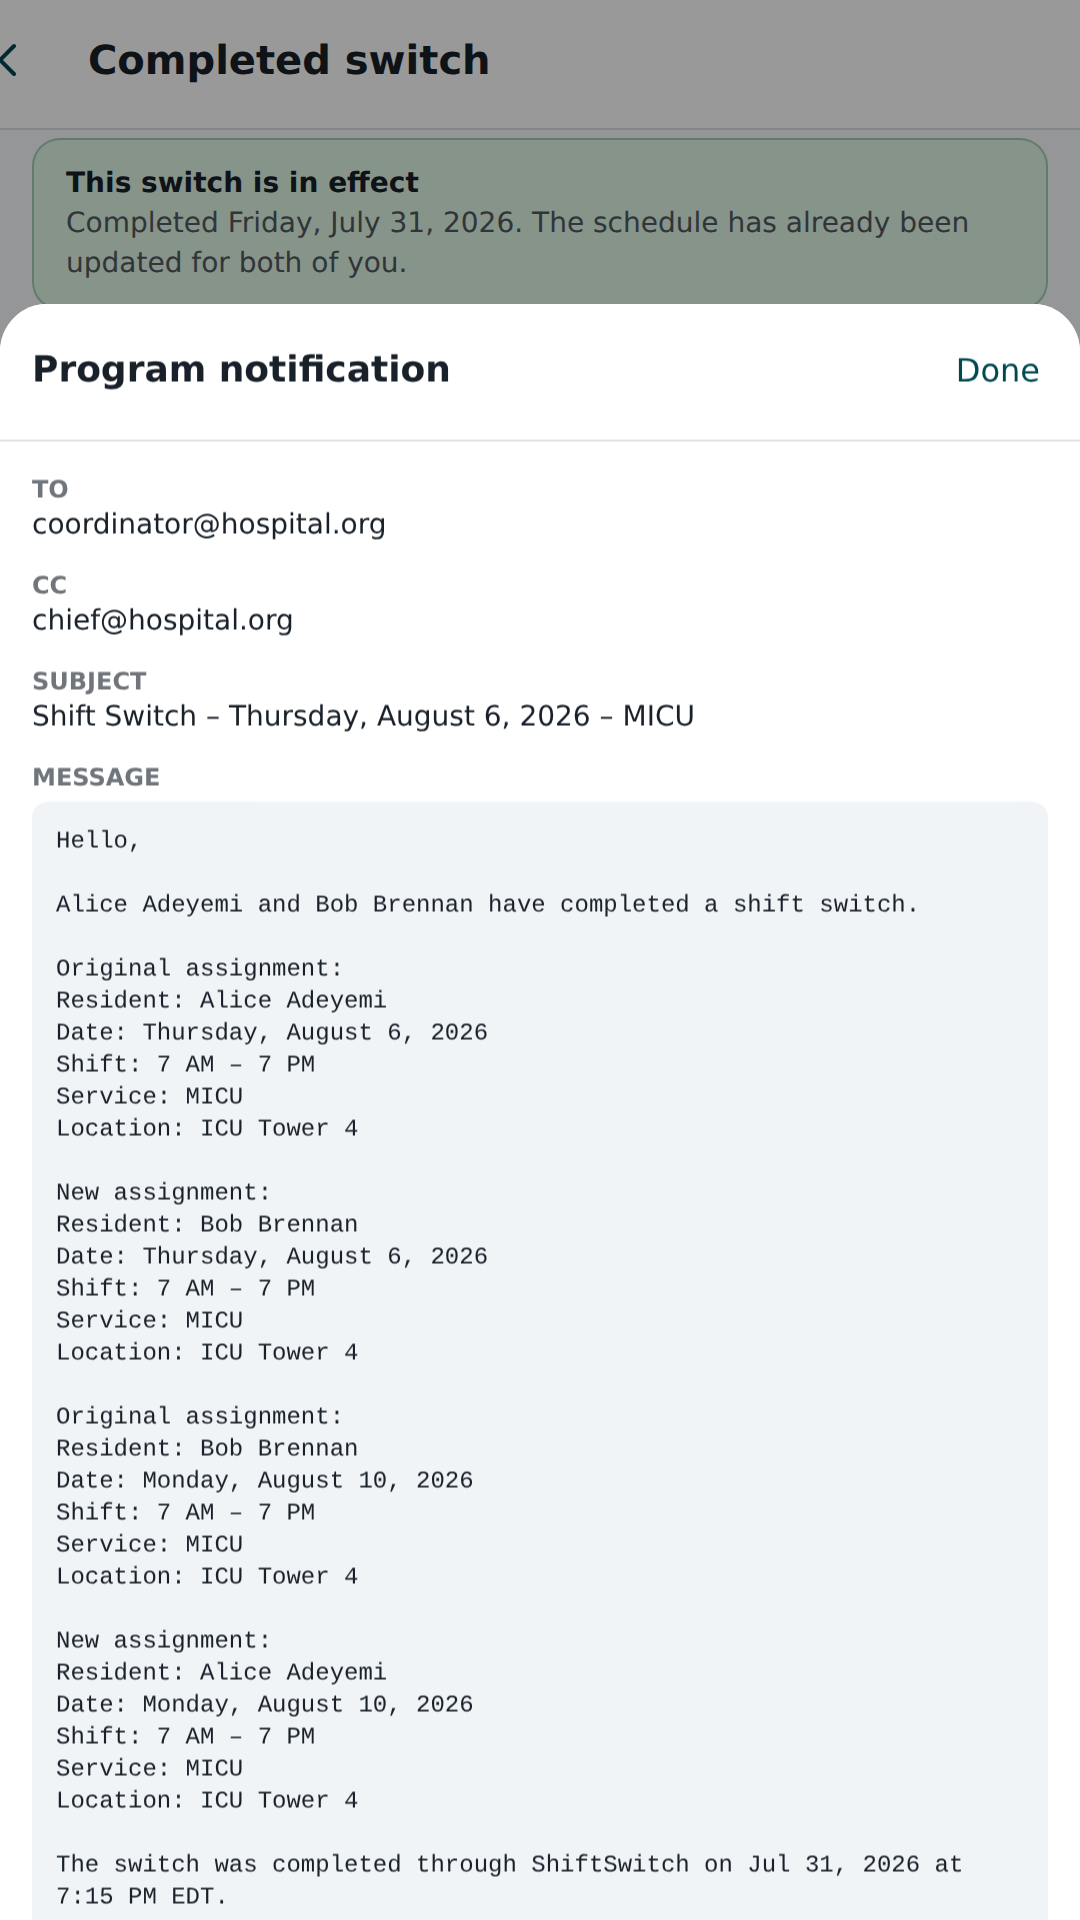
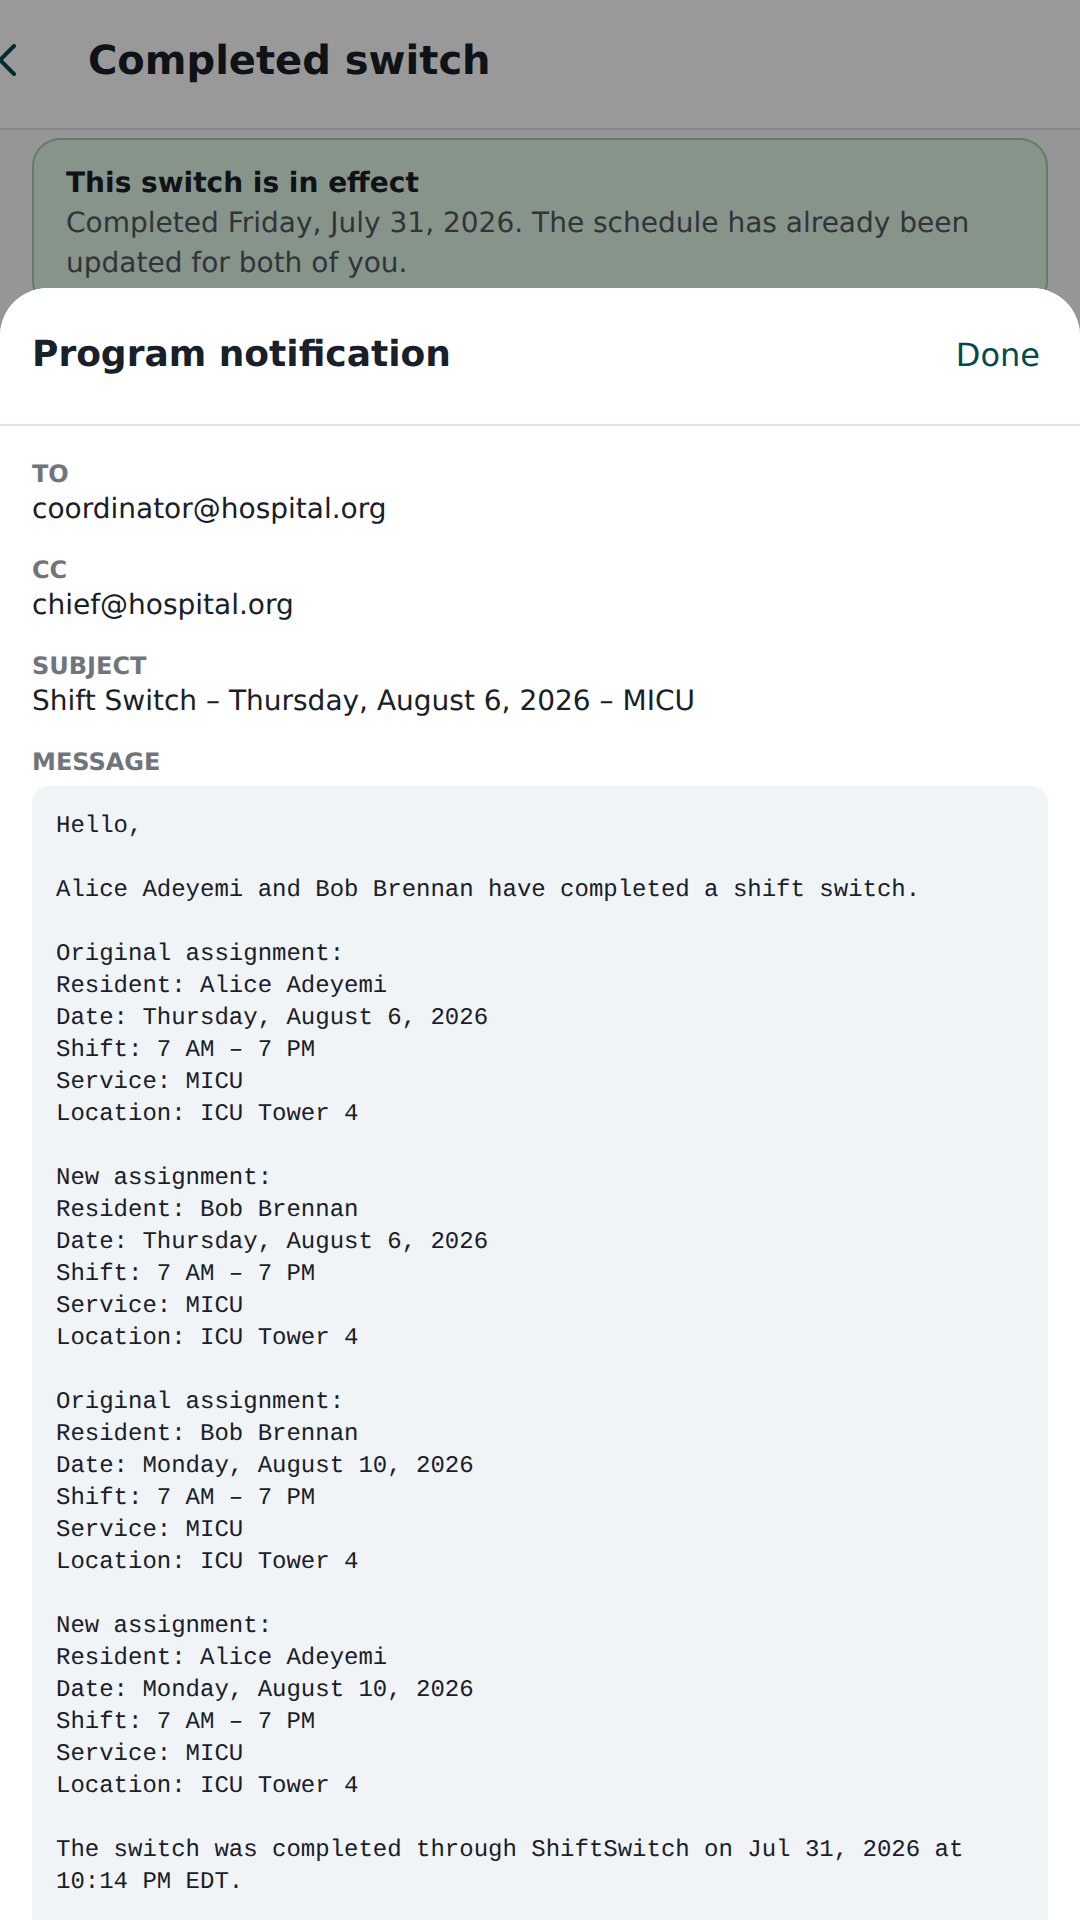
Add property tests, and bucket coverage lookups by service and day
Eight properties over 120 generated schedules, seeded so a failure is
reproducible from the seed printed with it: the validator never throws, is
valid exactly when it reports no hard violations, scores inside 0–100 with
every objective present, returns byte-identical output on a second run, only
names constraints that exist, writes a readable sentence every time, keeps
every soft penalty inside its range, and never puts a soft violation ahead of a
hard one.

The generator is deliberately careless — overlaps, unstaffed shifts, people on
leave, impossible coverage, empty programmes — because a property asserted only
over well-formed input is a property asserted over the cases that were never
going to break it.

Coverage cells are now bucketed by service and day once instead of filtering
every assignment for every (date, requirement) pair. A month barely noticed; a
year of a large programme is 365 days times twenty requirements times several
thousand assignments, which turns a validation into a visible wait. The demo's
four weeks validate in under half a second.

npm run verify exits 0: 10 steps, 664s. 544 unit and integration, 37 native,
134 web end-to-end, 16 native end-to-end, migrations 0001-0008 from empty, and
328 integration against the rebuilt schema.

Claude-Session: https://claude.ai/code/session_01LzUZab9XdFsK4H7WHAS23d

diff --git a/tests/unit/constraint-properties.test.ts b/tests/unit/constraint-properties.test.ts
@@ -1,0 +1,253 @@
+import { describe, expect, it } from "vitest";
+import { CONSTRAINTS, SOFT_CONSTRAINTS } from "@/server/domain/constraints/catalog";
+import { validateSchedule } from "@/server/domain/constraints/validator";
+import type { ScheduleSnapshot } from "@/server/domain/constraints/types";
+import { IDS, baseSnapshot, night, resident, rule, shift } from "./constraint-fixture";
+
+/**
+ * Properties that must hold for *any* schedule, not just the ones somebody
+ * thought to write a case for.
+ *
+ * The per-constraint tests prove each constraint fires when it should. These
+ * prove the things that have to be true of every report the validator can ever
+ * produce — that it never throws, never scores outside its own range, never
+ * contradicts itself about validity, and never returns two different answers
+ * for the same schedule.
+ *
+ * Schedules are generated from a seeded pseudo-random source rather than a
+ * library, so a failure is reproducible from the seed printed with it. The
+ * generator is deliberately careless: it produces overlaps, unstaffed shifts,
+ * people on leave, impossible coverage and empty programmes, because a property
+ * asserted only over well-formed input is a property asserted over the cases
+ * that were never going to break.
+ */
+
+/** Mulberry32 — small, fast, and identical on every machine. */
+function seeded(seed: number): () => number {
+  let state = seed >>> 0;
+  return () => {
+    state = (state + 0x6d2b79f5) >>> 0;
+    let t = state;
+    t = Math.imul(t ^ (t >>> 15), t | 1);
+    t ^= t + Math.imul(t ^ (t >>> 7), t | 61);
+    return ((t ^ (t >>> 14)) >>> 0) / 4294967296;
+  };
+}
+
+const DATES = [
+  "2026-08-03",
+  "2026-08-04",
+  "2026-08-05",
+  "2026-08-06",
+  "2026-08-07",
+  "2026-08-08",
+  "2026-08-09",
+];
+
+const RULE_TYPES = [
+  "min_rest_hours",
+  "max_consecutive_shifts",
+  "max_consecutive_nights",
+  "max_shifts_in_period",
+  "weekend_limit",
+  "no_overlapping_shifts",
+  "pgy_requirement",
+  "blackout_dates",
+  "holiday_restriction",
+] as const;
+
+function randomSnapshot(seed: number): ScheduleSnapshot {
+  const random = seeded(seed);
+  const pick = <T,>(items: readonly T[]): T =>
+    items[Math.floor(random() * items.length)];
+
+  const snapshot = baseSnapshot();
+  const people: string[] = [IDS.alice, IDS.ben, IDS.carmen, IDS.dev, IDS.dana];
+
+  // A programme with nobody in it is a real state, and has to survive.
+  if (random() < 0.1) {
+    snapshot.assignments = [];
+    snapshot.residents = [];
+    return snapshot;
+  }
+
+  if (random() < 0.3) {
+    snapshot.residents.push(
+      resident("aaaaaaaa-0006-4000-8000-000000000006", "Ella Ekwueme", 3),
+    );
+    people.push("aaaaaaaa-0006-4000-8000-000000000006");
+  }
+
+  // Between none and twenty extra shifts, some overnight, some on nobody.
+  const extra = Math.floor(random() * 20);
+  for (let index = 0; index < extra; index += 1) {
+    const date = pick(DATES);
+    const serviceId = random() < 0.5 ? IDS.wards : IDS.clinic;
+    const holder = random() < 0.15 ? null : pick(people);
+    snapshot.assignments.push(
+      random() < 0.25
+        ? night(date, serviceId, holder)
+        : shift(date, serviceId, holder),
+    );
+  }
+
+  // People who cannot work, and people with things recorded about them.
+  for (const person of snapshot.residents) {
+    if (random() < 0.15) person.schedulable = false;
+    if (random() < 0.1) person.active = false;
+    if (random() < 0.15) person.constraints = { unavailableDates: [pick(DATES)] };
+    if (random() < 0.15) person.preferences = { requestedDaysOff: [pick(DATES)] };
+    if (random() < 0.1) person.siteEligibility = { [IDS.site]: false };
+    if (random() < 0.15) {
+      person.cohortId = random() < 0.5 ? IDS.cohortA : IDS.cohortB;
+      person.cohortLabel = "A cohort";
+    }
+  }
+
+  // Coverage that may be impossible to satisfy.
+  if (random() < 0.5) {
+    snapshot.coverage = [
+      {
+        ...snapshot.coverage[0],
+        min_staff: Math.floor(random() * 5),
+        max_staff: random() < 0.5 ? Math.floor(random() * 3) : null,
+        pgy_mix:
+          random() < 0.4
+            ? [{ pgy: 1 + Math.floor(random() * 3), min: Math.floor(random() * 3), max: null }]
+            : [],
+      },
+    ];
+  }
+
+  // A handful of rules, configured with values that may be absurd.
+  const ruleCount = Math.floor(random() * 4);
+  for (let index = 0; index < ruleCount; index += 1) {
+    const type = pick(RULE_TYPES);
+    snapshot.rules.push(
+      rule(
+        type,
+        {
+          hours: Math.floor(random() * 48),
+          days: Math.floor(random() * 5),
+          nights: Math.floor(random() * 3),
+          maxShifts: Math.floor(random() * 6),
+          windowDays: 1 + Math.floor(random() * 28),
+          maxWeekendShifts: Math.floor(random() * 3),
+          dates: [pick(DATES)],
+          mode: random() < 0.5 ? "block" : "approval",
+        },
+        {
+          id: `rule-${type}-${index}`,
+          severity: random() < 0.25 ? "warning" : "error",
+        },
+      ),
+    );
+  }
+
+  if (random() < 0.3) {
+    snapshot.baseline = snapshot.assignments.map((assignment) => ({
+      ...assignment,
+      residentId: random() < 0.4 ? pick(people) : assignment.residentId,
+    }));
+  }
+
+  return snapshot;
+}
+
+/* Enough to be worth running, few enough to keep `verify:fast` fast. Each seed
+   is validated by eight separate properties, so this is over a thousand
+   validations; going higher bought no new failures and cost the inner loop
+   half a minute. */
+const SEEDS = Array.from({ length: 120 }, (_, index) => index + 1);
+const KNOWN = new Set(CONSTRAINTS.map((c) => c.id));
+
+describe("properties that hold for any schedule", () => {
+  it("never throws, whatever the schedule and configuration look like", () => {
+    for (const seed of SEEDS) {
+      expect(() => validateSchedule(randomSnapshot(seed)), `seed ${seed}`).not.toThrow();
+    }
+  });
+
+  it("is valid exactly when it reports no hard violations", () => {
+    for (const seed of SEEDS) {
+      const result = validateSchedule(randomSnapshot(seed));
+      const hard = result.violations.filter((v) => v.kind === "hard");
+      expect(result.summary.valid, `seed ${seed}`).toBe(hard.length === 0);
+      expect(result.summary.hardCount, `seed ${seed}`).toBe(hard.length);
+    }
+  });
+
+  it("scores between 0 and 100, always with the full breakdown", () => {
+    for (const seed of SEEDS) {
+      const { score } = validateSchedule(randomSnapshot(seed));
+      expect(score.score, `seed ${seed}`).toBeGreaterThanOrEqual(0);
+      expect(score.score, `seed ${seed}`).toBeLessThanOrEqual(100);
+      for (const soft of SOFT_CONSTRAINTS) {
+        expect(
+          score.objectives.some((o) => o.constraintId === soft.id),
+          `seed ${seed} is missing ${soft.id}`,
+        ).toBe(true);
+      }
+    }
+  });
+
+  it("gives the same answer twice, down to the order", () => {
+    for (const seed of SEEDS) {
+      const first = validateSchedule(randomSnapshot(seed));
+      const second = validateSchedule(randomSnapshot(seed));
+      expect(JSON.stringify(second), `seed ${seed}`).toEqual(JSON.stringify(first));
+    }
+  });
+
+  it("only ever reports constraints that exist", () => {
+    for (const seed of SEEDS) {
+      for (const violation of validateSchedule(randomSnapshot(seed)).violations) {
+        expect(KNOWN, `seed ${seed}`).toContain(violation.constraintId);
+      }
+    }
+  });
+
+  it("writes a readable sentence every time", () => {
+    for (const seed of SEEDS) {
+      for (const violation of validateSchedule(randomSnapshot(seed)).violations) {
+        const where = `seed ${seed} / ${violation.constraintId}: "${violation.message}"`;
+        expect(violation.message, where).not.toMatch(/\d{4}-\d{2}-\d{2}/);
+        expect(violation.message, where).toMatch(/[.!]$/);
+        expect(violation.message.length, where).toBeGreaterThan(15);
+        expect(violation.message, where).not.toMatch(/undefined|NaN|\[object/);
+      }
+    }
+  });
+
+  it("puts every soft violation's penalty inside its range", () => {
+    for (const seed of SEEDS) {
+      for (const violation of validateSchedule(randomSnapshot(seed)).violations) {
+        if (violation.kind !== "soft") continue;
+        expect(violation.penalty, `seed ${seed} / ${violation.constraintId}`).toBeDefined();
+        expect(violation.penalty!, `seed ${seed}`).toBeGreaterThan(0);
+        expect(violation.penalty!, `seed ${seed}`).toBeLessThanOrEqual(1);
+      }
+    }
+  });
+
+  it("keeps hard violations ahead of soft ones", () => {
+    for (const seed of SEEDS) {
+      const kinds = validateSchedule(randomSnapshot(seed)).violations.map((v) => v.kind);
+      const firstSoft = kinds.indexOf("soft");
+      if (firstSoft === -1) continue;
+      expect(kinds.slice(firstSoft).includes("hard"), `seed ${seed}`).toBe(false);
+    }
+  });
+
+  it("removes every violation when the schedule is emptied", () => {
+    /* Nothing scheduled cannot be *wrong*, only incomplete — and incomplete is
+       coverage's business, which needs a requirement to have an opinion. */
+    for (const seed of SEEDS.slice(0, 40)) {
+      const snapshot = randomSnapshot(seed);
+      snapshot.assignments = [];
+      snapshot.coverage = [];
+      snapshot.baseline = undefined;
+      expect(validateSchedule(snapshot).violations, `seed ${seed}`).toEqual([]);
+    }
+  });
+});

diff --git a/src/server/domain/constraints/hard.ts b/src/server/domain/constraints/hard.ts
@@ -85,7 +85,20 @@ function bandLabel(requirement: {
 /** Every (date, requirement) pair in the window, with what is actually on it. */
 function* coverageCells(snapshot: ScheduleSnapshot) {
   const services = new Map(snapshot.services.map((s) => [s.id, s]));
-  const staffed = staffedAssignments(snapshot);
+  const active = snapshot.coverage.filter((r) => r.active);
+
+  /* Bucketed by service and day once, rather than filtering every assignment
+     for every (date, requirement) pair. A month barely notices the
+     difference; a year of a large programme is 365 days × twenty requirements
+     × several thousand assignments, and the naive scan turns a validation
+     into a visible wait on a screen with a spinner. */
+  const byServiceDay = new Map<string, ScheduleAssignment[]>();
+  for (const assignment of staffedAssignments(snapshot)) {
+    const key = `${assignment.serviceId}|${assignmentDate(assignment, snapshot.program.timezone)}`;
+    const list = byServiceDay.get(key);
+    if (list) list.push(assignment);
+    else byServiceDay.set(key, [assignment]);
+  }
 
   for (const iso of datesInPeriod(snapshot.period)) {
     /* `requirementsFor` takes an instant so it can resolve the programme's
@@ -99,17 +112,17 @@ function* coverageCells(snapshot: ScheduleSnapshot) {
     }
 
     for (const requirement of requirementsFor(
-      snapshot.coverage.filter((r) => r.active),
+      active,
       instant,
       snapshot.program.timezone,
     )) {
       const service = services.get(requirement.service_id);
       if (!service || !service.active) continue;
-      const present = staffed.filter(
-        (a) =>
-          a.serviceId === requirement.service_id &&
-          countsToward(a, requirement, iso, snapshot.program.timezone),
-      );
+      /* Only the requirement's own time band still needs testing per cell —
+         the day and the service came from the bucket key. */
+      const present = (
+        byServiceDay.get(`${requirement.service_id}|${iso}`) ?? []
+      ).filter((a) => countsToward(a, requirement, iso, snapshot.program.timezone));
       yield { iso, requirement, service, present };
     }
   }

diff --git a/docs/AI_PROJECT_STATE.md b/docs/AI_PROJECT_STATE.md
@@ -3,9 +3,15 @@
 Authoritative checkpoint for any new session. **Read this first**, inspect only
 what the current task needs, verify with targeted commands, and continue.
 
-Last updated: 31 July 2026, after building the scheduler foundation: sites,
-service configuration, coverage requirements, cohorts, configurable block
-years, resident scheduling data, a scheduler dashboard and draft schedules.
+Last updated: 1 August 2026, after building the constraint model and the
+schedule validator: every scheduling constraint the configuration can express,
+declared hard or soft, evaluated purely, with a deterministic score whose
+breakdown is per objective. See `docs/CONSTRAINTS.md`.
+
+Before that, the scheduler foundation: sites, service configuration, coverage
+requirements, cohorts, configurable block years, resident scheduling data, a
+scheduler dashboard, and draft schedules that can be started, edited, diffed
+and published.
 
 Before that, making the repository runnable unattended:
 `/CLAUDE.md`, a single `npm run verify`, guards on every irreversible script,
@@ -819,22 +825,22 @@ Three of the defects above were found this way and by nothing else.
 
 **`npm run verify` exits 0.** That is the whole answer, and the only one worth
 quoting — it runs every row below in one command with one exit code. Last full
-run: 10 steps, 563 seconds.
+run: 10 steps, 664 seconds.
 
 | Step | Result |
 |---|---|
 | Typecheck (`tsc --noEmit`) | clean |
 | Lint, server + web | clean |
 | Lint, native client | clean |
-| Server unit + integration (`vitest run`) | **461 passed**, 23 files |
+| Server unit + integration (`vitest run`) | **544 passed**, 28 files |
 | Native client unit (`npm --prefix mobile run test`) | **37 passed**, 6 files |
 | Production build (`next build`) | succeeds |
-| Web end-to-end (`playwright test`) | **130 passed**, mobile + desktop projects |
+| Web end-to-end (`playwright test`) | **134 passed**, mobile + desktop projects |
 | Native end-to-end (`--config playwright.mobile.config.ts`) | **16 passed**, including the 9 screenshot specs |
 | Migrations from scratch (`migrate.ts --reset`) | **0001–0008 apply to an empty database** |
-| Integration suite against the rebuilt schema | **308 passed**, 14 files |
+| Integration suite against the rebuilt schema | **328 passed**, 15 files |
 
-644 distinct tests. The final 270 is the integration subset re-run against the
+715 distinct tests. The final 328 is the integration subset re-run against the
 freshly rebuilt schema, which is why it is not added again.
 
 Also verified by execution, not inspection:
